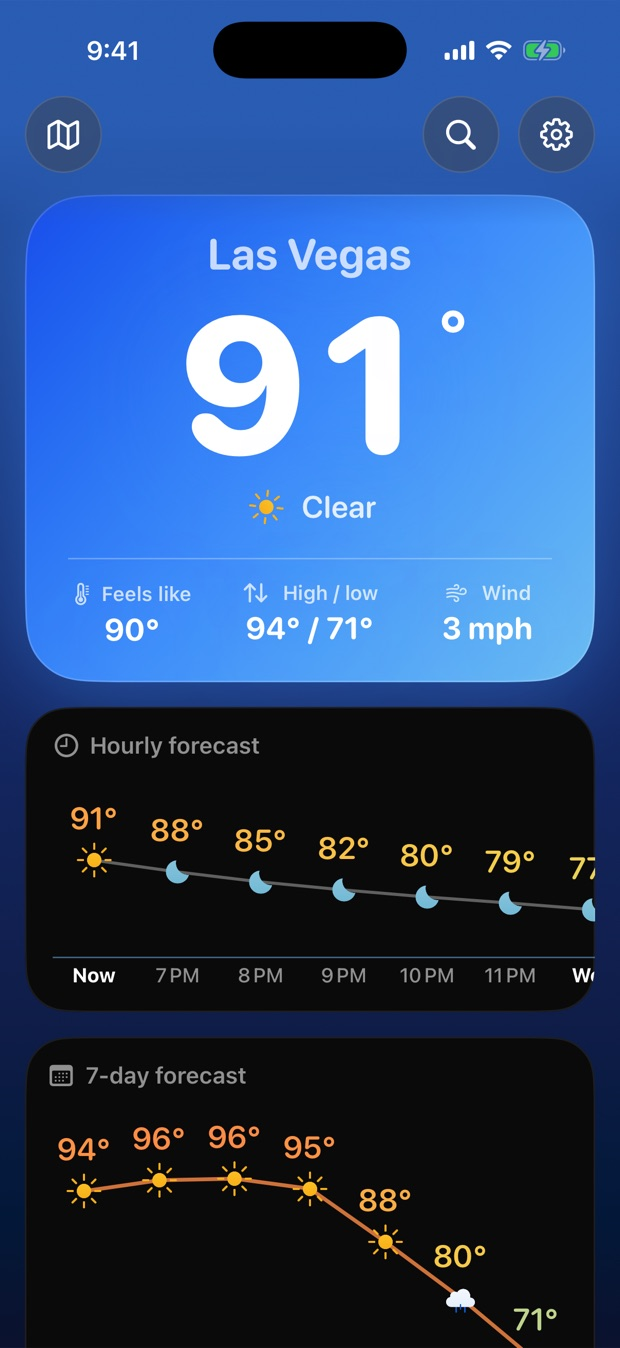
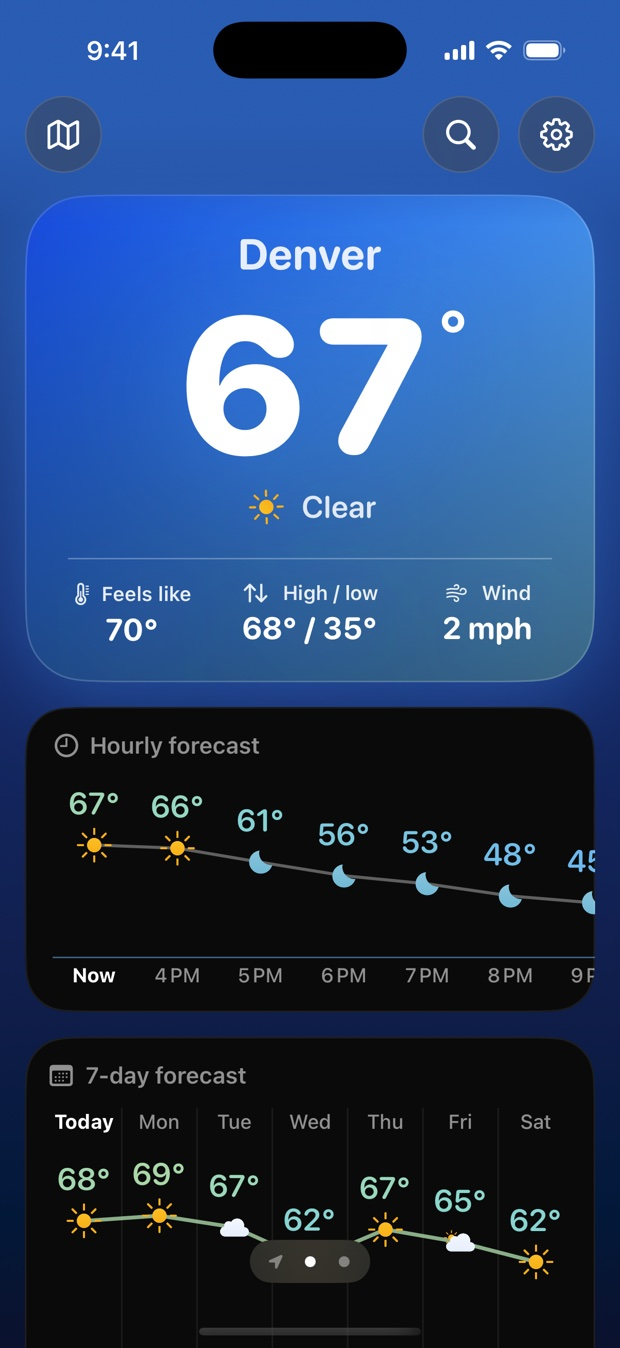
Site: radar autoplays, press-and-hold card editing, swipe between cities, current Today screenshot

diff --git a/index.html b/index.html
@@ -89,7 +89,7 @@
         </div>
         <p class="hero-note">No ads, and no tracking in the app. Free to download, with a free forecast.</p>
       </div>
-      <div class="phone"><img src="assets/screen-today.jpg" alt="Solrise Weather Today screen showing Las Vegas at 91 degrees with an hourly forecast chart and 7-day forecast chart" width="620" height="1348" fetchpriority="high"></div>
+      <div class="phone"><img src="assets/screen-today.jpg" alt="Solrise Weather Today screen showing Denver at 67 degrees with an hourly forecast chart and 7-day forecast chart" width="620" height="1348" fetchpriority="high"></div>
     </div>
   </section>
 
@@ -126,12 +126,12 @@
         <div class="card">
           <div class="label">Your way</div>
           <h3>Make Today yours</h3>
-          <p>Choose from nearly 50 cards, turn each one on or off, and drag them into your own order. The layout fills itself, so there are never empty gaps.</p>
+          <p>Choose from nearly 50 cards. Press and hold any card to move it, add it, or remove it. The layout fills itself, so there are never empty gaps.</p>
         </div>
         <div class="card">
           <div class="label">Places</div>
           <h3>Here, Home, and everywhere else</h3>
-          <p>Your current location, your Home, and your saved cities, each in its own place. Search any city and see its full forecast before you decide to save it.</p>
+          <p>Your current location, your Home, and your saved cities. Swipe across Today to move between them. Search any city and see its full forecast before you decide to save it.</p>
         </div>
         <div class="card">
           <div class="label">Widgets</div>
@@ -152,7 +152,7 @@
       <div>
         <h2>Live radar, satellite, and fronts.</h2>
         <p class="eyebrow" style="margin-top:-6px;">Included with Premium</p>
-        <p class="section-lede">Watch the weather move, with maps straight from the agencies that run the radars and satellites. Press play to see the last few hours unfold.</p>
+        <p class="section-lede">Watch the weather move, with maps straight from the agencies that run the radars and satellites. It starts playing the moment you open it, so you see the last few hours unfold.</p>
         <ul class="checklist">
           <li><strong>Rain radar:</strong> live radar for the last 90 minutes across the US (NOAA), Canada (Environment Canada), and Europe (EUMETNET's network of about 150 radars in 30 countries)</li>
           <li><strong>Satellite:</strong> clouds anywhere in the world over the last 3 hours, from NASA and NOAA satellites</li>

diff --git a/support.html b/support.html
@@ -73,7 +73,7 @@
   <details><summary>Why doesn't rain radar show where I am?</summary><p>Rain radar covers the US, Alaska, Hawaii, Puerto Rico, and Guam (NOAA), Canada (Environment Canada), and most of Europe (EUMETNET OPERA). Elsewhere, the radar map says so, and the Satellite layer still shows clouds anywhere in the world.</p></details>
   <details><summary>Why don't I see any hurricanes on the map?</summary><p>Storms only appear while the National Hurricane Center is tracking an active one in the Atlantic, Gulf of Mexico, Caribbean, or Eastern or Central Pacific. Most of the year there are none. When one forms, it shows up on the radar map on its own.</p></details>
   <details><summary>How do I switch to Celsius or km/h?</summary><p>Open Settings in Solrise and turn on Metric units.</p></details>
-  <details><summary>How do I change or reorder the cards on Today?</summary><p>Open Settings, then Customize Today. Turn cards on or off and drag them into your own order.</p></details>
+  <details><summary>How do I change or reorder the cards on Today?</summary><p>Press and hold any card on Today to start editing, then drag cards into your own order, tap minus to remove one, or tap plus to add one. Tap Done when you finish. You can also open Settings, then Customize Today.</p></details>
   <details><summary>Why don't I see tides, storm outlook, or snow level?</summary><p>Some data only exists in certain places: tides need a nearby NOAA tide station, waves need a nearby NOAA buoy, the severe storm outlook covers the lower 48 US states, and snow level, river levels, air quality, and the forecasters' notes cover the US. Solrise only shows a card when there's real data for that place.</p></details>
   <details><summary>Where does the weather data come from?</summary><p>Forecasts, current conditions, and alerts come from Apple Weather. US radar, air quality, hurricanes, tides, ocean conditions, aviation reports, aurora, and outlooks come from NOAA and the National Weather Service, Canadian radar from Environment and Climate Change Canada, European radar from EUMETNET OPERA, satellite imagery from NASA and NOAA, and earthquakes from the US Geological Survey. Each guide in the app names its source at the bottom.</p></details>
 
